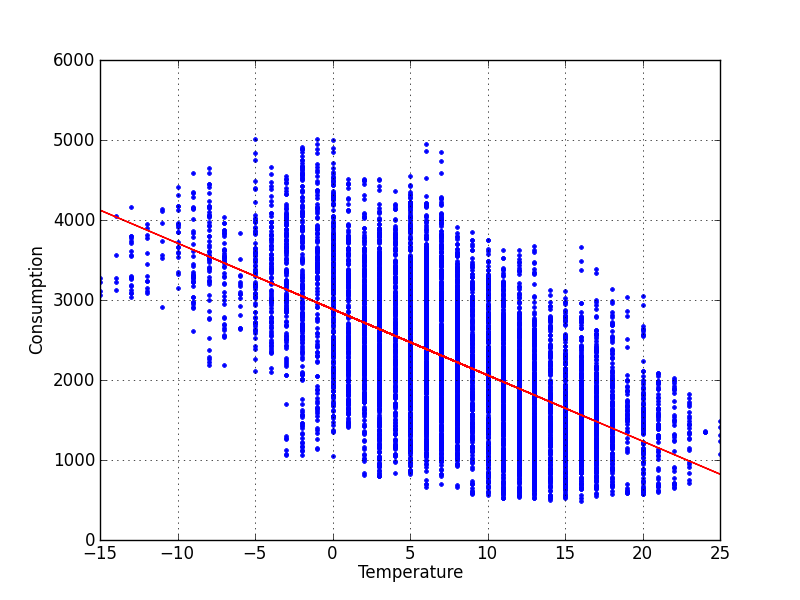
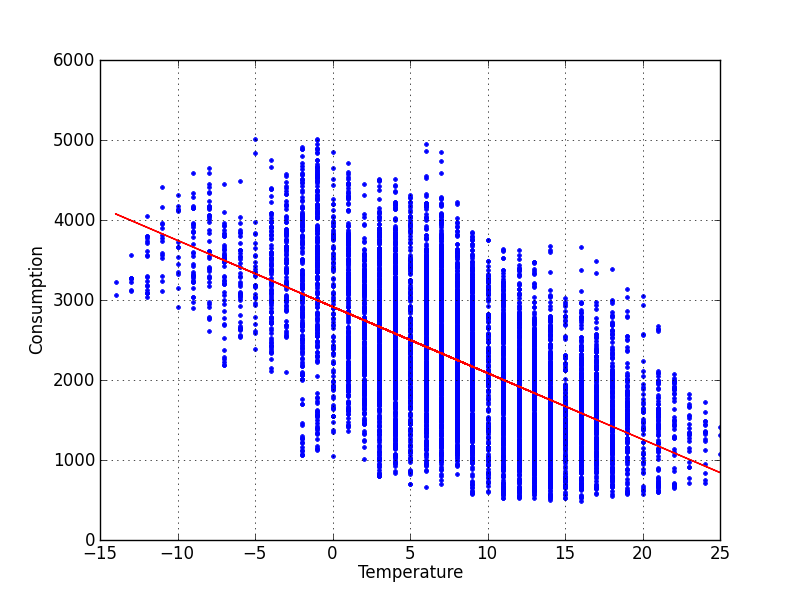
Hourly wind production picture
Updatet my own pictures for the new data set.

diff --git a/sections/DataCollection/electricityPricePrediction.tex b/sections/DataCollection/electricityPricePrediction.tex
@@ -129,7 +129,6 @@ Since we haven't normalized any data the error is relative to the input data, bu
 \subsection{Simple classification}
 Since the naive method proved to be less than satisfactory in the results we got we tried some simple classifications on our data e.g. grouping them per hour, per day and taking only parts of the dataset to train on. This approach is derived from REF and REF and from our earlier models that show connections: price/day-of-week and price/hour-of-day. The experiments with only training on parts of the set is to limit the span of the year. We got the following results which proved a little better but still not good:
 
-
 \begin{table}[!ht]
 \centering  % used for centering table
 \resizebox{\columnwidth}{!}{%
@@ -153,6 +152,24 @@ Limited dataset & 3-2-1 & 100 & 1500 & 498.61 \\
 The simple classification of our data gives us a rather broad specktrum ranging from 15.75\% to a respectable 4.35\%. The first four entries in the table; time-of-day and day-of-week, ranges over the whole year . They range from 15.75\% to 9.46\% in some of the examples a better result than the naive, but not by much. While the limited dataset only gives us an ANN that uses 1 month(750 entries) and 2 months(1500 entries) of data to train, it gives us a way better median error. This is because we are using a dataset with similar days e.g. winter days and meanwhile a limited set of data, which is easier to predict (REF til 1 maaned nu her og 1 maaned sidste aar). This is actually a pretty good error margin but we will test more sophisticated methods to see if it will give us better results. 
 
 \subsection{Zero-to-one normalization}
+For artificial neural networks to do the best work; the data should be normalized to either bipolar data(-1 to 1) or binary data(0 to 1). This ensures the best performance by the activation functions since fx. the sigmoid activation function input/output follows table ~\ref{fig:same_hour_distribution}
+
+\begin{table}[!ht]
+\centering  % used for centering table
+\resizebox{\columnwidth}{!}{%
+\begin{tabular}{c c} % centered columns
+ \#0 x & \#1 f(x) \\ [0.5ex] % inserts table 
+%heading
+\hline                  % inserts single horizontal line
+x >= 1 & 1 \\
+-1 < x < 1 & 0.5 + x * (1 - abs(x) / 2) \\
+x <= -1 & 0 \\
+\hline %inserts single line
+\end{tabular}
+}
+\caption{Results from the simple classification approach} % title of Table
+\label{table:naiveTrainingApproach} % is used to refer this table in the text
+\end{table}
 
 \subsection{Statistical classification}
 
@@ -167,3 +184,6 @@ Skriv om:
 	Blackbox optimization.
 	Hvad der fejler.
 	Mulige løsninger.
+	Trimming
+	Percentile normalization
+	Vis tingene paa side 4
